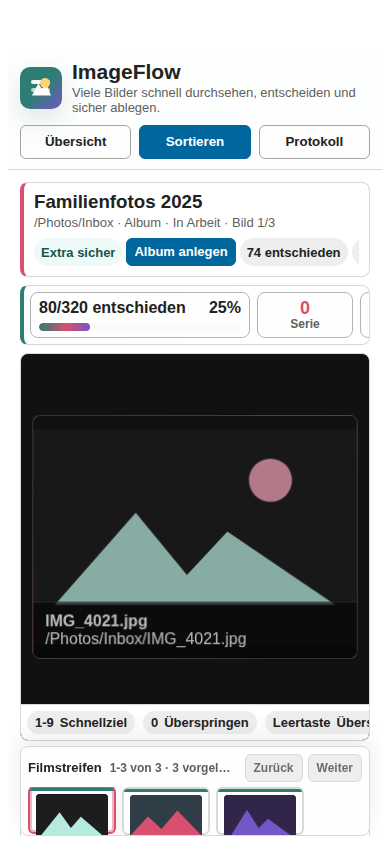
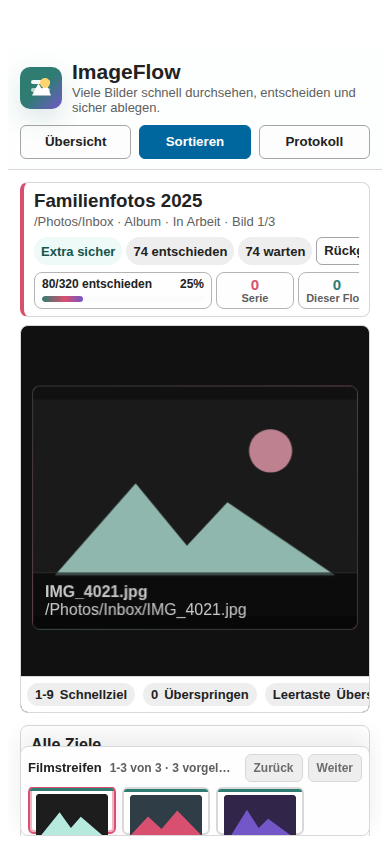
integrate flow progress header

diff --git a/imageflow/js/imageflow-main.js b/imageflow/js/imageflow-main.js
@@ -1312,7 +1312,7 @@
         <td>
           <div class="imageflow-actions">
             <button class="imageflow-button primary" data-action="open-sort" data-start-mode="resume" data-job-id="${job.id}" type="button">${primaryStartLabel}</button>
-            <button class="imageflow-button" data-action="open-sort" data-start-mode="begin" data-job-id="${job.id}" type="button">Neu anfangen</button>
+            <button class="imageflow-button" data-action="open-sort" data-start-mode="begin" data-job-id="${job.id}" title="${escapeAttr(beginStartHint(job))}" type="button">Von vorn ansehen</button>
             <button class="imageflow-button" data-action="open-sort" data-start-mode="unsorted" data-job-id="${job.id}" type="button">Offene Bilder</button>
             <button class="imageflow-button" data-action="edit-job" data-job-id="${job.id}" type="button">Bearbeiten</button>
             <button class="imageflow-button" data-action="duplicate-job" data-job-id="${job.id}" type="button">Kopie</button>
@@ -1347,6 +1347,7 @@
     const progress = progressStats(job, page, images);
     const tempo = sessionTempo();
     const milestone = flowMilestone(progress.percent, state.decisionStreak);
+    const beginHint = beginStartHint(job);
     const hasDecisions = Number(job.sortedFiles || 0) + Number(job.skippedFiles || 0) > 0 || (sortState.recentAssignments || []).length > 0;
     const listedTargets = state.targets.length
       ? state.targets
@@ -1358,50 +1359,51 @@
     return `
       <section class="imageflow-sort" aria-label="Sortieransicht">
         <header class="imageflow-job-head">
-          <div>
+          <div class="imageflow-head-title">
             <h3>${escapeHtml(job.name || "Flow")}</h3>
             <p>${escapeHtml(job.sourcePath || "/")} · ${modeLabel(job.targetMode)} · ${statusLabel(job.status)} · Bild ${images.length ? currentIndex + 1 : 0}/${images.length}</p>
           </div>
-          <div class="imageflow-toolbar">
-            <span class="imageflow-badge safe">${job.safeMode ? "Extra sicher" : "Standard"}</span>
-            <button class="imageflow-button primary" data-action="focus-target-create" type="button">${job.targetMode === "album" ? "Album anlegen" : "Ordner anlegen"}</button>
-            <span class="imageflow-badge">${Number(job.sortedFiles || 0)} entschieden</span>
-            <span class="imageflow-badge">${Number(job.queuedOperations || 0)} warten</span>
-            <button class="imageflow-button" data-action="undo-last-decision" type="button" ${hasDecisions ? "" : "disabled"}>Rückgängig</button>
-            <button class="imageflow-button" data-action="start-sort" data-start-mode="resume" type="button">Weitermachen</button>
-            <button class="imageflow-button" data-action="start-sort" data-start-mode="begin" type="button">Neu anfangen</button>
-            <button class="imageflow-button" data-action="start-sort" data-start-mode="unsorted" type="button">Offene Bilder</button>
-            <button class="imageflow-button" data-action="go-jobs" type="button">Zurück</button>
+          <div class="imageflow-head-actions">
+            <div class="imageflow-toolbar">
+              <span class="imageflow-badge safe">${job.safeMode ? "Extra sicher" : "Standard"}</span>
+              <span class="imageflow-badge">${Number(job.sortedFiles || 0)} entschieden</span>
+              <span class="imageflow-badge">${Number(job.queuedOperations || 0)} warten</span>
+              <button class="imageflow-button" data-action="undo-last-decision" type="button" ${hasDecisions ? "" : "disabled"}>Rückgängig</button>
+              <button class="imageflow-button" data-action="start-sort" data-start-mode="resume" type="button">Weitermachen</button>
+              <button class="imageflow-button" data-action="start-sort" data-start-mode="begin" title="${escapeAttr(beginHint)}" type="button">Von vorn ansehen</button>
+              <button class="imageflow-button" data-action="start-sort" data-start-mode="unsorted" type="button">Offene Bilder</button>
+              <button class="imageflow-button" data-action="go-jobs" type="button">Zurück</button>
+            </div>
+            <section class="imageflow-gamebar" aria-label="Flow-Fortschritt">
+              <div class="imageflow-flow-meter">
+                <div class="imageflow-flow-meter-head">
+                  <strong>${progress.done}/${progress.total} entschieden</strong>
+                  <span>${progress.percent}%</span>
+                </div>
+                <div class="imageflow-progress-track" aria-hidden="true">
+                  <span class="imageflow-progress-fill" style="width: ${progress.percent}%"></span>
+                </div>
+              </div>
+              <div class="imageflow-flow-chip accent-warm">
+                <strong>${state.decisionStreak}</strong>
+                <span>Serie</span>
+              </div>
+              <div class="imageflow-flow-chip accent-cool">
+                <strong>${state.decisionsThisSession}</strong>
+                <span>Dieser Flow</span>
+              </div>
+              <div class="imageflow-flow-chip accent-violet">
+                <strong>${tempo}</strong>
+                <span>Bilder/min</span>
+              </div>
+              <div class="imageflow-flow-chip accent-cool">
+                <strong>${bufferPlan.length}</strong>
+                <span>Vorgeladen</span>
+              </div>
+              <div class="imageflow-flow-milestone">${escapeHtml(milestone)}</div>
+            </section>
           </div>
         </header>
-        <section class="imageflow-gamebar" aria-label="Flow-Fortschritt">
-          <div class="imageflow-flow-meter">
-            <div class="imageflow-flow-meter-head">
-              <strong>${progress.done}/${progress.total} entschieden</strong>
-              <span>${progress.percent}%</span>
-            </div>
-            <div class="imageflow-progress-track" aria-hidden="true">
-              <span class="imageflow-progress-fill" style="width: ${progress.percent}%"></span>
-            </div>
-          </div>
-          <div class="imageflow-flow-chip accent-warm">
-            <strong>${state.decisionStreak}</strong>
-            <span>Serie</span>
-          </div>
-          <div class="imageflow-flow-chip accent-cool">
-            <strong>${state.decisionsThisSession}</strong>
-            <span>Dieser Flow</span>
-          </div>
-          <div class="imageflow-flow-chip accent-violet">
-            <strong>${tempo}</strong>
-            <span>Bilder/min</span>
-          </div>
-          <div class="imageflow-flow-chip accent-cool">
-            <strong>${bufferPlan.length}</strong>
-            <span>Vorgeladen</span>
-          </div>
-          <div class="imageflow-flow-milestone">${escapeHtml(milestone)}</div>
-        </section>
         <div class="imageflow-sort-grid">
           <aside class="imageflow-rail">
             <h4>Schnellziele</h4>
@@ -2526,6 +2528,7 @@
   }
 
   async function openSort(jobId, startMode) {
+    rememberBeginStartNotice(jobId, startMode);
     state.page = "sort";
     scrollToTopOnRender = true;
     state.jobId = jobId;
@@ -2545,6 +2548,7 @@
   }
 
   async function restartSort(startMode) {
+    rememberBeginStartNotice(state.jobId, startMode);
     state.imageIndex = 0;
     state.imagePage = null;
     state.pageCursor = null;
@@ -2552,6 +2556,21 @@
     clearImagePageCache();
     resetSessionFlow();
     await loadImagePage(null, null, true, startMode);
+  }
+
+  function rememberBeginStartNotice(jobId, startMode) {
+    if (startMode !== "begin") {
+      return;
+    }
+    const job = state.sortState?.job?.id === jobId
+      ? state.sortState.job
+      : state.jobs.find((item) => String(item.id) === String(jobId));
+    if (Number(job?.executedOperations || 0) > 0) {
+      state.toast = {
+        type: "info",
+        message: "Du siehst den Flow nur wieder von vorn. Bereits abgelegte Dateien werden nicht automatisch zurückgeholt.",
+      };
+    }
   }
 
   async function changeJobStatus(jobId, operation) {
@@ -3335,6 +3354,13 @@
       return "warning";
     }
     return "safe";
+  }
+
+  function beginStartHint(job) {
+    if (Number(job?.executedOperations || 0) > 0) {
+      return "Startet nur die Ansicht beim ersten Bild. Bereits abgelegte Dateien werden nicht zurückgeholt.";
+    }
+    return "Startet die Ansicht beim ersten Bild. Vorgemerkte Ablagen bleiben erhalten.";
   }
 
   function queueStatusLabel(status) {

diff --git a/imageflow/css/imageflow-main.css b/imageflow/css/imageflow-main.css
@@ -593,7 +593,7 @@
 
 .imageflow-sort {
   display: grid;
-  grid-template-rows: auto auto minmax(0, 1fr) auto;
+  grid-template-rows: auto minmax(0, 1fr) auto;
   gap: 8px;
   width: min(100%, 1760px);
   height: 100%;
@@ -605,10 +605,10 @@
 
 .imageflow-job-head {
   display: grid;
-  grid-template-columns: minmax(280px, 1fr) minmax(0, 2fr);
+  grid-template-columns: minmax(260px, 0.52fr) minmax(0, 1.48fr);
   gap: 8px 12px;
-  align-items: center;
-  padding: 8px 10px;
+  align-items: stretch;
+  padding: 7px 10px;
   border: 1px solid var(--color-border);
   border-left: 4px solid #d94f70;
   border-radius: 8px;
@@ -630,6 +630,7 @@
 
 .imageflow-job-head .imageflow-toolbar {
   gap: 4px;
+  justify-content: flex-end;
   min-width: 0;
 }
 
@@ -640,18 +641,27 @@
   font-size: 13px;
 }
 
+.imageflow-head-title,
+.imageflow-head-actions {
+  min-width: 0;
+}
+
+.imageflow-head-title {
+  align-self: center;
+}
+
+.imageflow-head-actions {
+  display: grid;
+  gap: 5px;
+  align-content: center;
+}
+
 .imageflow-gamebar {
   display: grid;
-  grid-template-columns: minmax(240px, 1fr) repeat(4, minmax(108px, auto)) minmax(170px, auto);
-  gap: 7px;
+  grid-template-columns: minmax(170px, 1fr) repeat(4, minmax(72px, auto)) minmax(150px, 1fr);
+  gap: 4px;
   align-items: stretch;
-  padding: 7px;
-  border: 1px solid var(--color-border);
-  border-left: 4px solid #2f7d72;
-  border-radius: 8px;
-  background:
-    linear-gradient(90deg, color-mix(in srgb, var(--color-main-background) 94%, #b7eadf), transparent 74%),
-    var(--color-main-background);
+  min-width: 0;
 }
 
 .imageflow-flow-meter,
@@ -665,20 +675,21 @@
 
 .imageflow-flow-meter {
   display: grid;
-  gap: 5px;
-  padding: 6px 8px;
+  gap: 3px;
+  padding: 4px 6px;
 }
 
 .imageflow-flow-meter-head {
   display: flex;
-  gap: 8px;
+  gap: 6px;
   justify-content: space-between;
   color: var(--color-main-text);
+  font-size: 12px;
   font-weight: 800;
 }
 
 .imageflow-progress-track {
-  height: 8px;
+  height: 6px;
   border-radius: 999px;
   overflow: hidden;
   background: color-mix(in srgb, var(--color-main-background) 78%, var(--color-background-darker));
@@ -695,13 +706,13 @@
 .imageflow-flow-chip {
   display: grid;
   place-items: center;
-  padding: 6px 8px;
+  padding: 3px 6px;
   text-align: center;
 }
 
 .imageflow-flow-chip strong {
   color: #d94f70;
-  font-size: 18px;
+  font-size: 15px;
   line-height: 1;
 }
 
@@ -716,7 +727,7 @@
 .imageflow-flow-chip span,
 .imageflow-flow-milestone {
   color: var(--color-text-maxcontrast);
-  font-size: 12px;
+  font-size: 11px;
   font-weight: 800;
   overflow-wrap: anywhere;
 }
@@ -724,7 +735,7 @@
 .imageflow-flow-milestone {
   display: grid;
   place-items: center;
-  padding: 6px 10px;
+  padding: 4px 8px;
   color: var(--color-main-text);
   background: color-mix(in srgb, var(--color-main-background) 88%, #ffe8a3);
 }
@@ -1527,8 +1538,7 @@
   .imageflow-dashboard,
   .imageflow-system-grid,
   .imageflow-check-grid,
-  .imageflow-sort-grid,
-  .imageflow-gamebar {
+  .imageflow-sort-grid {
     grid-template-columns: 1fr;
   }
 
@@ -1573,7 +1583,6 @@
     display: flex;
     flex-wrap: nowrap;
     overflow-x: auto;
-    padding: 6px;
   }
 
   .imageflow-job-head .imageflow-toolbar {
@@ -1583,24 +1592,24 @@
   .imageflow-flow-meter,
   .imageflow-flow-chip,
   .imageflow-flow-milestone {
-    padding: 6px 8px;
+    padding: 4px 7px;
   }
 
   .imageflow-flow-chip strong {
-    font-size: 18px;
+    font-size: 15px;
   }
 
   .imageflow-flow-meter {
-    flex: 1 0 220px;
+    flex: 1 0 178px;
   }
 
   .imageflow-flow-chip,
   .imageflow-flow-milestone {
-    flex: 0 0 96px;
+    flex: 0 0 78px;
   }
 
   .imageflow-flow-milestone {
-    flex-basis: 166px;
+    flex-basis: 145px;
   }
 
   .imageflow-hotkeys {

diff --git a/imageflow/tests/Browser/static-ui.spec.js b/imageflow/tests/Browser/static-ui.spec.js
@@ -68,7 +68,7 @@ test('renders the job dashboard and creates a local mock job', async ({ page }) 
   await expect(page.getByRole('button', { name: 'Flow speichern' })).toBeVisible();
   await expect(page.getByRole('button', { name: 'Speichern & loslegen' })).toBeVisible();
   await expect(page.getByRole('button', { name: 'Weitermachen' }).first()).toBeVisible();
-  await expect(page.getByRole('button', { name: 'Neu anfangen' }).first()).toBeVisible();
+  await expect(page.getByRole('button', { name: 'Von vorn ansehen' }).first()).toBeVisible();
   await expect(page.getByRole('button', { name: 'Offene Bilder' }).first()).toBeVisible();
   await expect(page.getByLabel('Ablageordner')).toBeHidden();
   await expect(page.getByLabel('Bilder vorladen')).toBeVisible();
@@ -224,6 +224,7 @@ test('renders the sorting workspace with hotkey targets and filmstrip', async ({
   await expect(page.getByRole('heading', { name: 'Alle Ziele' })).toBeVisible();
   await expect(page.getByLabel('Flow-Fortschritt')).toContainText('Serie');
   await expect(page.getByRole('button', { name: 'Album anlegen' }).first()).toBeVisible();
+  await expect(page.locator('.imageflow-job-head').getByRole('button', { name: 'Album anlegen' })).toHaveCount(0);
   await page.getByRole('button', { name: 'Album anlegen' }).first().click();
   await expect(page.getByPlaceholder('Neues Album')).toBeFocused();
   await expect(page.getByLabel('Filmstreifen')).toBeVisible();
@@ -231,13 +232,16 @@ test('renders the sorting workspace with hotkey targets and filmstrip', async ({
   await expect(page.locator('.imageflow-photo-meta strong', { hasText: 'IMG_4021.jpg' })).toBeVisible();
   await expect(page.getByText('Leertaste')).toBeVisible();
   await expect(page.getByRole('button', { name: 'Weitermachen' })).toBeVisible();
-  await expect(page.getByRole('button', { name: 'Neu anfangen' })).toBeVisible();
+  await expect(page.getByRole('button', { name: 'Von vorn ansehen' })).toHaveAttribute('title', /Vorgemerkte Ablagen bleiben erhalten/);
   await expect(page.getByRole('button', { name: 'Offene Bilder' })).toBeVisible();
 
+  const headBox = await page.locator('.imageflow-job-head').boundingBox();
   const photoBox = await page.locator('.imageflow-photo-stage').boundingBox();
   const footerBox = await page.locator('.imageflow-filmstrip').boundingBox();
+  expect(headBox).not.toBeNull();
+  expect(headBox.height).toBeLessThan(90);
   expect(photoBox).not.toBeNull();
-  expect(photoBox.height).toBeGreaterThan(300);
+  expect(photoBox.height).toBeGreaterThan(380);
   expect(footerBox).not.toBeNull();
   expect(footerBox.height).toBeLessThan(120);
   expect(footerBox.y + footerBox.height).toBeLessThanOrEqual(900);

diff --git a/imageflow/docs/SCREENSHOTS.md b/imageflow/docs/SCREENSHOTS.md
@@ -96,8 +96,8 @@ Screenshots 1-9 document the earlier safety and worklist blocks. Screenshots 10-
 30. Live narrow Nextcloud layout with visible create button and filmstrip
    ![Live narrow Nextcloud layout with visible create button and filmstrip](screenshots/30-live-narrow-flow-layout.png)
 
-31. Responsive desktop Flow with compact header and image-only filmstrip
-   ![Responsive desktop Flow with compact header and image-only filmstrip](screenshots/31-responsive-desktop-flow.png)
+31. Responsive desktop Flow with integrated progress header and image-only filmstrip
+   ![Responsive desktop Flow with integrated progress header and image-only filmstrip](screenshots/31-responsive-desktop-flow.png)
 
-32. Responsive mobile Flow with photo-first sorting layout and compact filmstrip
-   ![Responsive mobile Flow with photo-first sorting layout and compact filmstrip](screenshots/32-responsive-mobile-flow.png)
+32. Responsive mobile Flow with integrated progress header and compact filmstrip
+   ![Responsive mobile Flow with integrated progress header and compact filmstrip](screenshots/32-responsive-mobile-flow.png)

diff --git a/imageflow/CHANGELOG.md b/imageflow/CHANGELOG.md
@@ -24,6 +24,7 @@
 - Pin the Flow filmstrip to the viewport bottom and duplicate target creation in the Flow header for narrow Nextcloud layouts.
 - Make ImageFlow fill the Nextcloud content width and add mobile-first Flow ordering with compact navigation.
 - Compact the Flow header and filmstrip so thumbnails are image-only framed tiles and the main photo keeps more vertical space.
+- Move Flow progress into the header, remove the duplicate header target-create action, and rename restart wording to clarify that executed file operations are not rolled back.
 
 ## 0.1.0 - 2026-05-08
 
